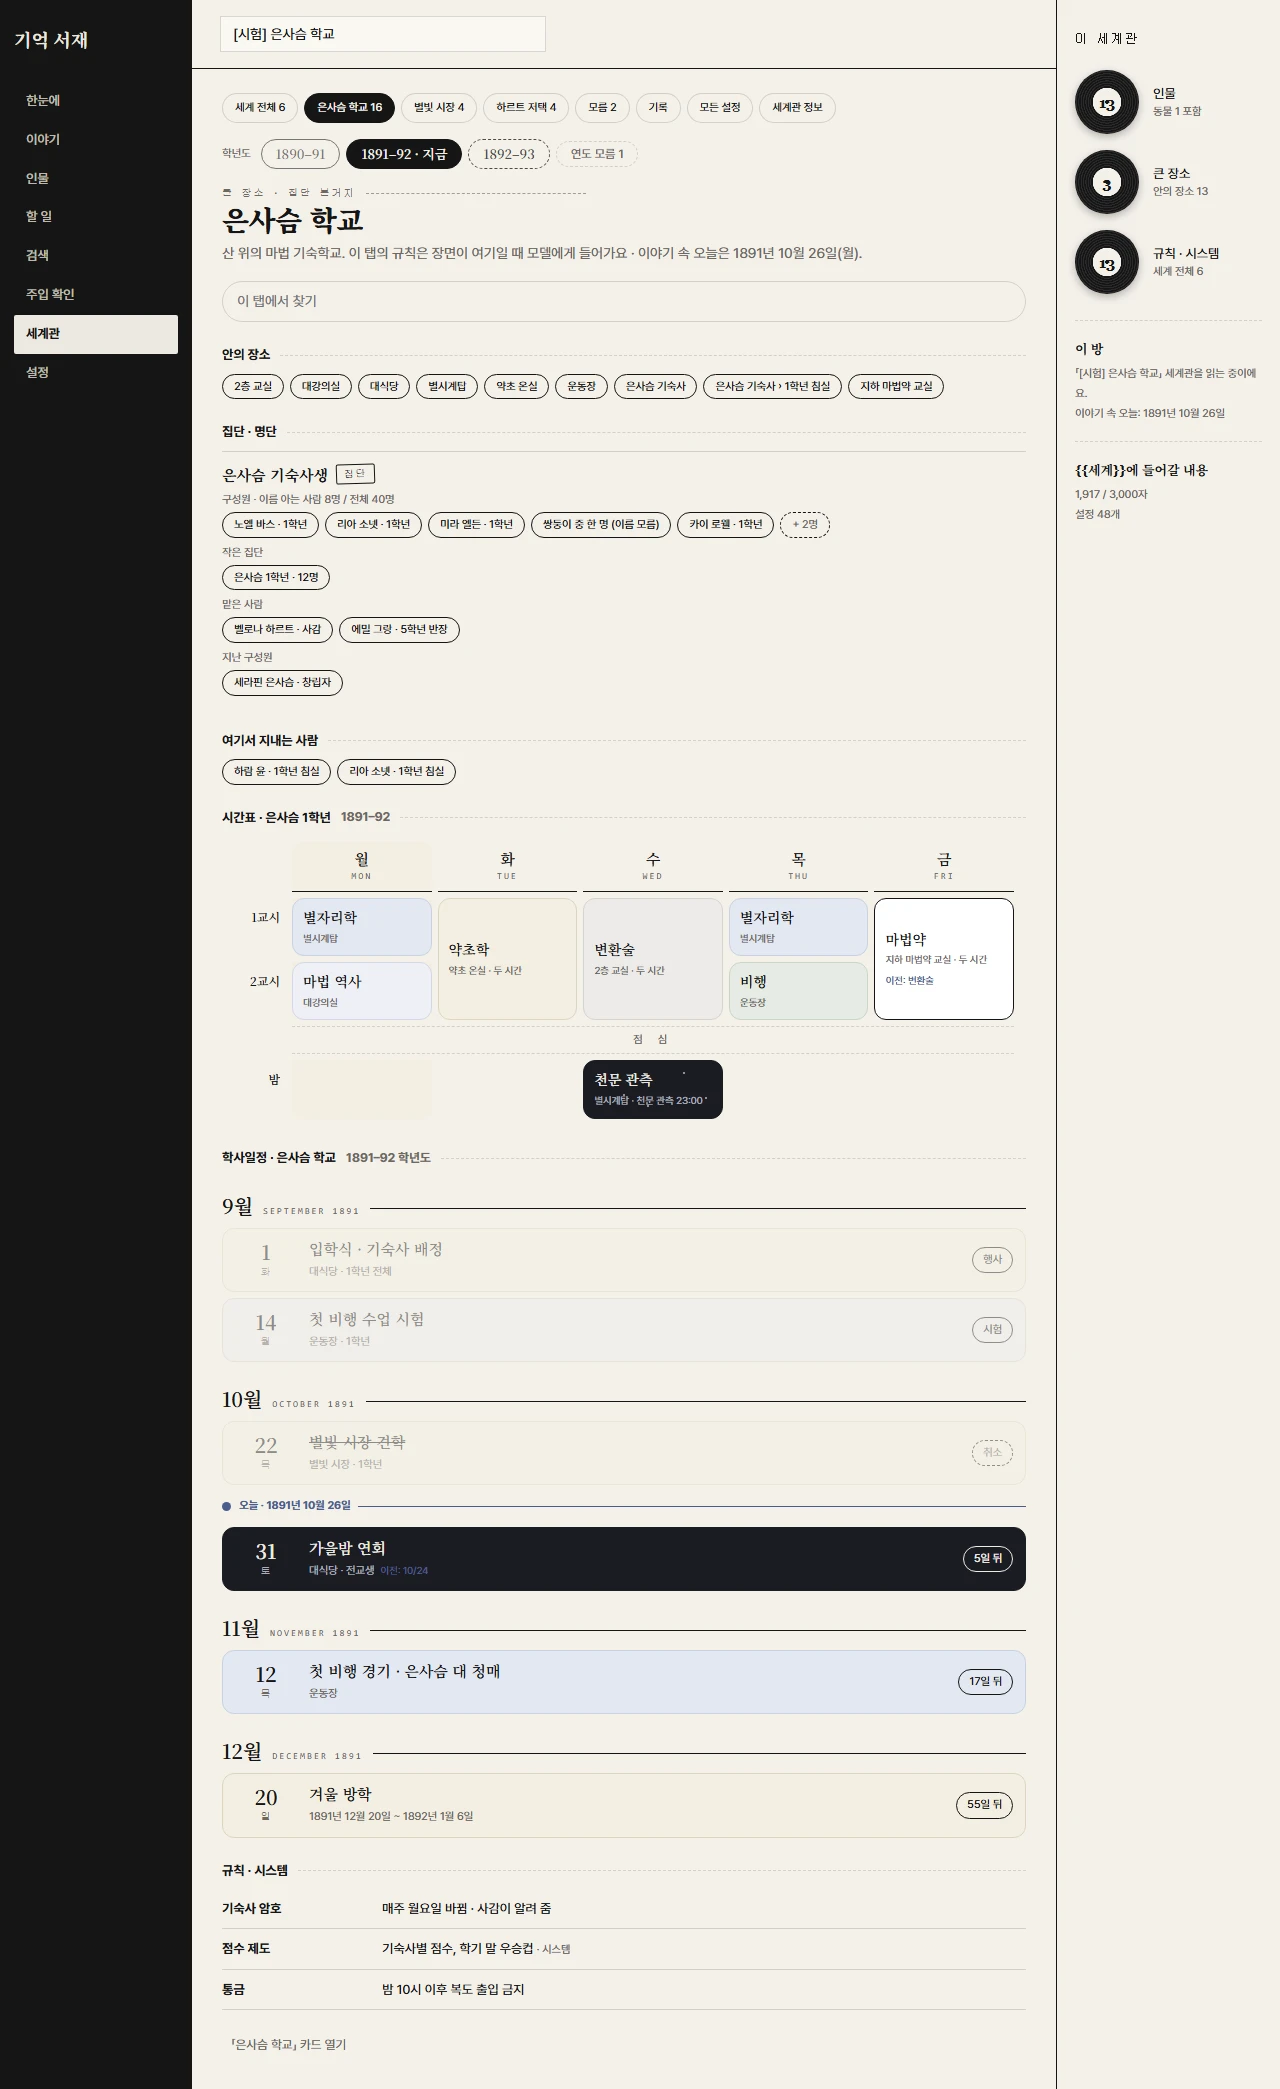
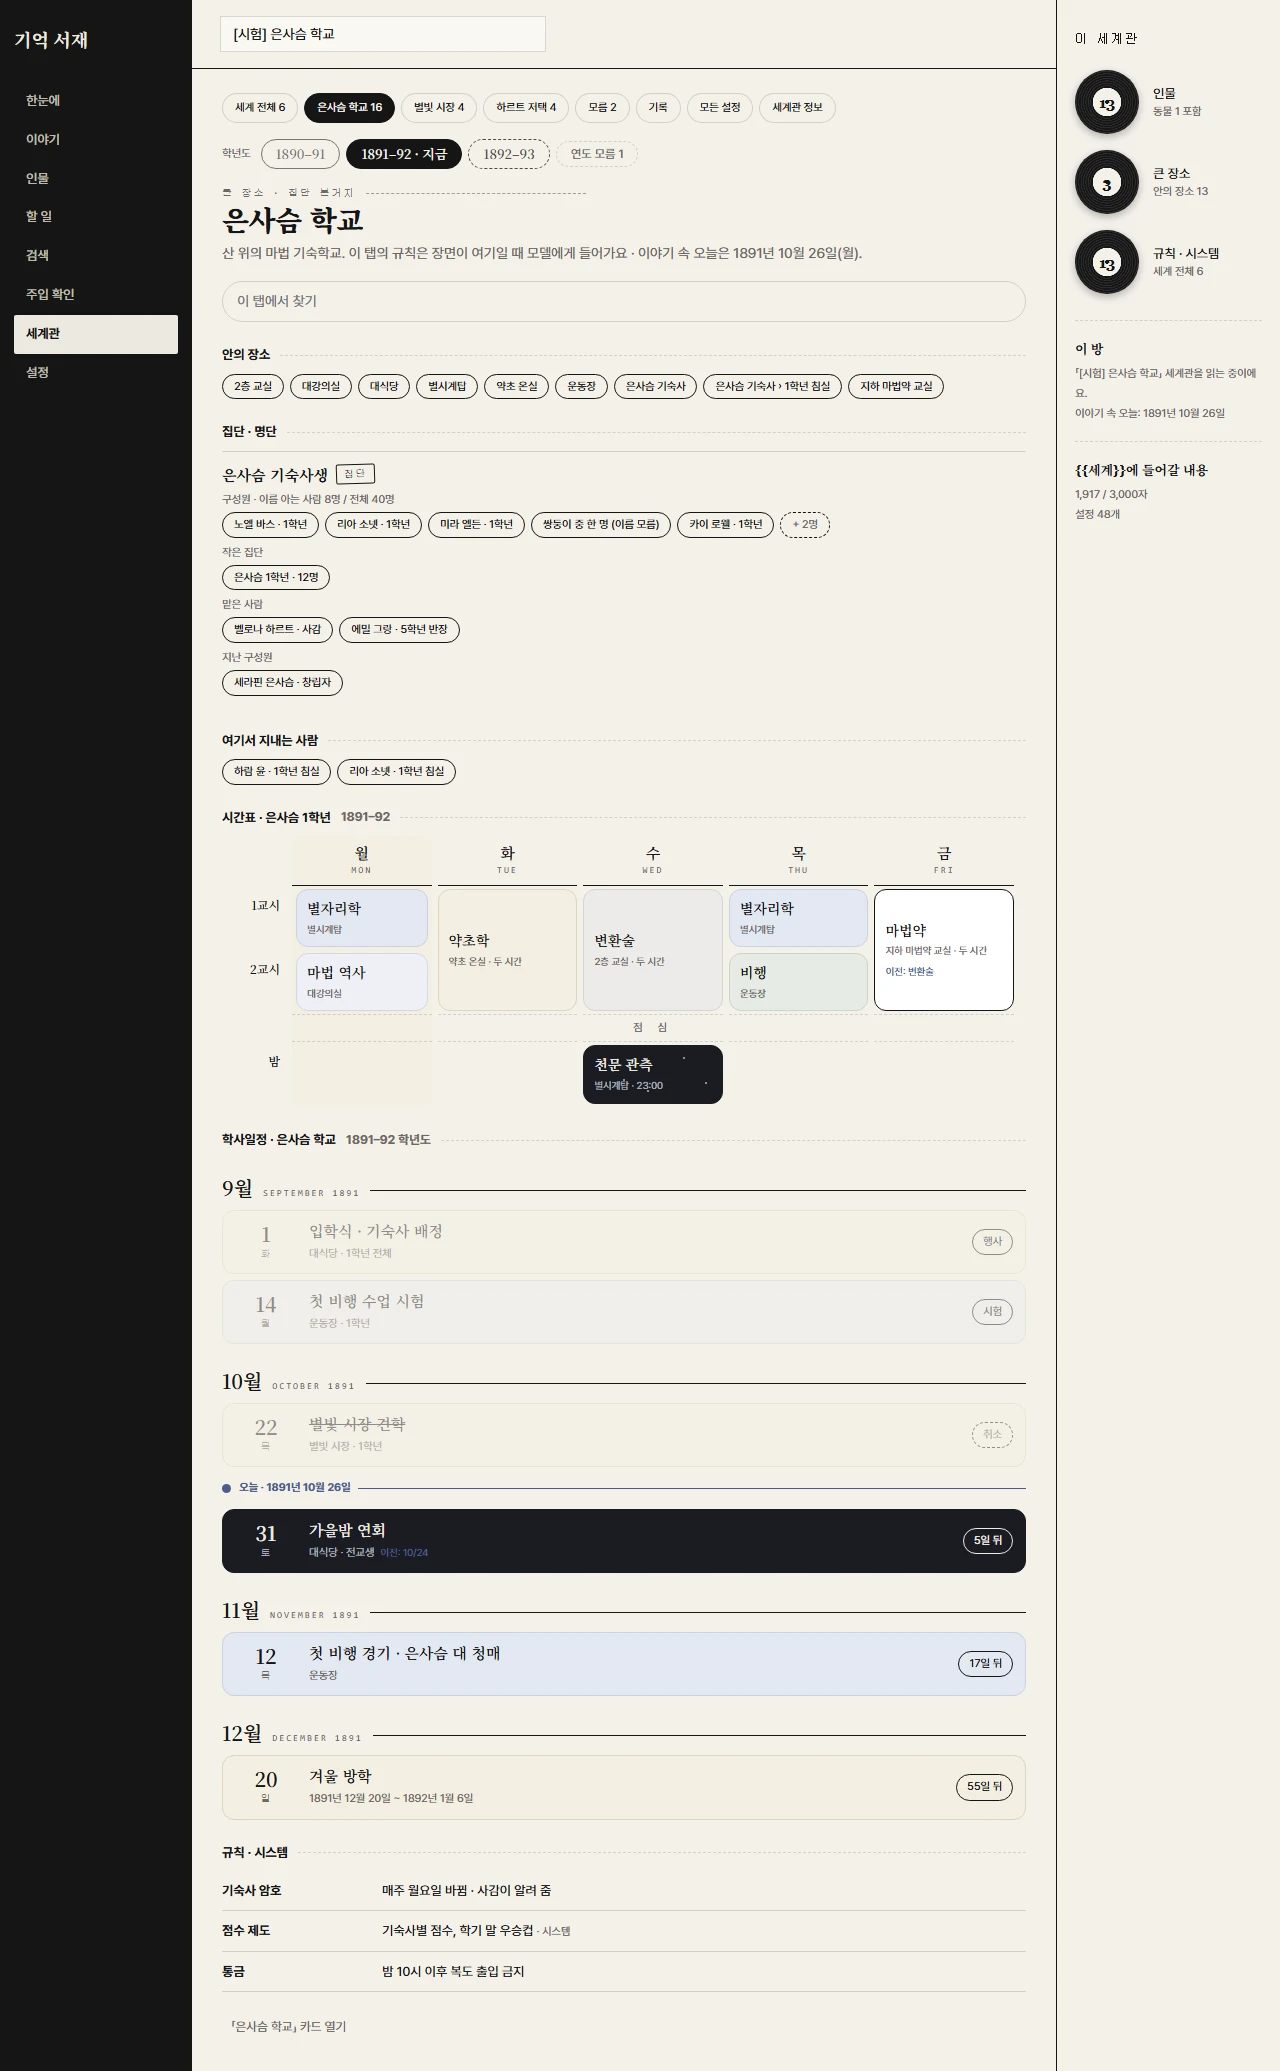
fix(v0.6.1): 세계관 칸 자잘한 4개 (사령탑 스크린샷 검토)
- 시간표 오늘 요일 띠: 머리부터 밤 줄까지 그 요일 칸 전체 뒤에(점심 줄 포함, 맨 아래만 둥글게). 어두운 모드 밤 줄의
  갈색 네모도 띠의 일부가 됨.
- 시간표 작은 글씨: 장소 · 시간 길이 · 값이 과목에 더하는 것만(「천문 관측 23:00」 → 「별시계탑 · 23:00」).
- 어두운 모드 학사일정 「바로 다음 일」: 크림 테두리 · 조금 밝은 바탕.
- 폰 학사일정 「N일 뒤」 캡슐: 이름 줄 오른쪽 끝에 작게(칸 높이 그대로).
- 큰 장소가 없는 세계관의 첫 탭: 세계 전체에 아무것도 없으면 「모름」.
- 스크린샷 세계관칸-{컴퓨터,폰}-{밝게,어둡게}.webp 다시 찍음. 판 0.6.1.

Tests: 201/201 pass (node:22-alpine, isolated).

diff --git a/extension/extension.js b/extension/extension.js
@@ -7,7 +7,7 @@
   // __WORLD_ARCHIVE_EMBEDDED__ = true; then nothing starts here and the tab calls __memoryWorldPanel.start(box).
   const EMBEDDED = typeof __WORLD_ARCHIVE_EMBEDDED__ !== 'undefined' && __WORLD_ARCHIVE_EMBEDDED__ === true;
   if (!EMBEDDED && document.getElementById('marinara-world-archive-root')) return;
-  const VERSION = '0.6.0';
+  const VERSION = '0.6.1';
   /** The contract level this screen is made for (the server's status.contract). Another level: read only. */
   const PANEL_CONTRACT = 2;
   const UPDATE_MSG = '세계관 칸을 쓰려면 기억 서재(또는 설정집)를 업데이트해 주세요. 지금은 보기만 할 수 있습니다.';
@@ -274,12 +274,12 @@ button.cap:hover{background:var(--wa-soft)}.cap.ghost{border-style:dashed;color:
 .wt-rule span{color:var(--wa-ink);overflow-wrap:anywhere}.wt-rule small{color:var(--wa-muted)}
 .wt-empty{color:var(--wa-muted);font-size:12.5px;margin:6px 0}
 /* 시간표 (시안 E) */
-.wt-tt{width:100%;border-collapse:separate;border-spacing:6px;table-layout:fixed;margin:0 -6px}
+.wt-tt{width:100%;border-collapse:separate;border-spacing:6px 0;table-layout:fixed;margin:0 -6px}
 .wt-tt th{font:600 15px/1.2 var(--wt-gothic);padding:8px 0 10px;border-bottom:1.5px solid var(--wa-ink);text-align:center}
 .wt-tt th small{display:block;font:9px var(--wa-mono);letter-spacing:2px;color:var(--wa-muted);margin-top:3px}
 .wt-tt th.today{background:var(--wt-cream);border-radius:10px 10px 0 0}.wt-tt th.blank{width:64px;border:0}
-.wt-tt td{vertical-align:top;padding:0}.wt-tt td.t{width:64px;text-align:right;padding:10px 6px 0 0;font-size:11px;color:var(--wa-muted)}.wt-tt td.t b{display:block;color:var(--wa-ink);font:600 12px var(--wt-gothic)}
-.wt-tt td.todaycol{background:var(--wt-cream);border-radius:0 0 10px 10px}
+.wt-tt td{vertical-align:top;padding:3px 0}.wt-tt td.t{width:64px;text-align:right;padding:10px 6px 0 0;font-size:11px;color:var(--wa-muted)}.wt-tt td.t b{display:block;color:var(--wa-ink);font:600 12px var(--wt-gothic)}
+.wt-tt td.todaycol{background:var(--wt-cream);padding:3px 4px}.wt-tt td.todaycol.end{border-radius:0 0 10px 10px;padding-bottom:7px}.wt-tt th.today{padding-left:4px;padding-right:4px}
 .wt-c{border-radius:12px;padding:10px 10px 9px;height:100%;min-height:58px;border:1px solid transparent;text-align:left;width:100%;display:block}
 .wt-c b{display:block;font:600 14px/1.25 var(--wt-gothic);overflow-wrap:anywhere}.wt-c small{display:block;font-size:10px;color:var(--wa-muted);margin-top:3px}
 .wt-c.s1{background:var(--wt-c1);border-color:var(--wt-c1-line)}.wt-c.s2{background:var(--wt-cream);border-color:var(--wt-cream-line)}.wt-c.s3{background:var(--wt-c3);border-color:var(--wt-c3-line)}
@@ -287,7 +287,7 @@ button.cap:hover{background:var(--wa-soft)}.cap.ghost{border-style:dashed;color:
 .wt-c.changed{background:var(--wt-white);border-color:var(--wa-ink)}.wt-c.wide{opacity:.55}
 .wt-was{font-size:10px;color:var(--wt-blue);margin-top:4px}
 .wt-free{border:1px dashed var(--wa-line);border-radius:12px;min-height:58px}
-.wt-lunch td.l{text-align:center;font-size:11px;color:var(--wa-muted);letter-spacing:6px;padding:4px 0;border-top:1px dashed var(--wa-line);border-bottom:1px dashed var(--wa-line)}
+.wt-lunch td{padding:0}.wt-lunch td.l{text-align:center;font-size:11px;color:var(--wa-muted);letter-spacing:6px;padding:4px 0;border-top:1px dashed var(--wa-line);border-bottom:1px dashed var(--wa-line)}
 .wt-night{background:var(--wt-night);color:var(--wt-night-ink);border-radius:12px;padding:10px;position:relative;overflow:hidden;min-height:58px;border:1px solid var(--wt-night);text-align:left;width:100%;display:block}
 :host([data-theme=dark]) .wt-night{border-color:var(--wa-field-line)}
 .wt-night b{display:block;color:var(--wt-night-ink);font:600 14px/1.25 var(--wt-gothic)}.wt-night small{display:block;color:var(--wt-night-sub);font-size:10px;margin-top:3px}
@@ -308,7 +308,7 @@ button.cap:hover{background:var(--wa-soft)}.cap.ghost{border-style:dashed;color:
 .wt-ev .n b{display:block;font:600 15px var(--wt-gothic);overflow-wrap:anywhere}.wt-ev .n small{color:var(--wa-muted);font-size:11px}
 .wt-ev .k{font-size:11px;padding:3px 10px;border-radius:999px;border:1px solid var(--wa-ink);white-space:nowrap}
 .wt-ev.past{opacity:.45}.wt-ev.c1{background:var(--wt-c1);border-color:var(--wt-c1-line)}.wt-ev.c2{background:var(--wt-cream);border-color:var(--wt-cream-line)}.wt-ev.c3{background:var(--wt-c3);border-color:var(--wt-c3-line)}
-.wt-ev.next{background:var(--wt-night);color:var(--wt-night-ink);border-color:var(--wt-night)}:host([data-theme=dark]) .wt-ev.next{border-color:var(--wa-field-line)}
+.wt-ev.next{background:var(--wt-night);color:var(--wt-night-ink);border-color:var(--wt-night)}:host([data-theme=dark]) .wt-ev.next{background:#2b2924;border-color:#e8dfc4}
 .wt-ev.next .n small,.wt-ev.next .d small{color:var(--wt-night-sub)}.wt-ev.next .k{border-color:var(--wt-night-ink)}
 .wt-ev.cancel .n b{text-decoration:line-through}.wt-ev.cancel .k{border-style:dashed;color:var(--wa-muted)}.wt-ev.noyear{border-style:dashed}
 .wt-today{display:flex;align-items:center;gap:8px;margin:12px 0;color:var(--wt-blue);font-size:11px;font-weight:700}
@@ -327,7 +327,7 @@ button.cap:hover{background:var(--wa-soft)}.cap.ghost{border-style:dashed;color:
 @media(max-width:720px){
   .wt-tt{display:none}.wt-dtab{display:flex}.wt-day.on{display:block}
   .wt-rule{flex-direction:column;gap:2px}.wt-rule b,.wt-rule button{min-width:0}
-  .wt-ev{grid-template-columns:46px minmax(0,1fr);gap:10px}.wt-ev .k{grid-column:2;justify-self:start}
+  .wt-ev{grid-template-columns:46px minmax(0,1fr) auto;gap:8px;padding:8px 10px}.wt-ev .k{font-size:10px;padding:2px 7px}
   :host([data-embedded]) main{padding:16px 14px 40px}
 }
 `;
@@ -1208,7 +1208,9 @@ button.cap:hover{background:var(--wa-soft)}.cap.ghost{border-style:dashed;color:
       if (!hit) return night(s) ? '' : '<div class="wt-free"></div>';
       const [k, c] = hit;
       const subj = c.subject || c.value;
-      const sub = [c.place, c.hours > 1 ? `${HOURS[c.hours] || c.hours} 시간` : '', c.value !== subj ? c.value : ''].filter(Boolean).join(' · ');
+      // the small line: place · how long · what the value adds to the subject (「천문 관측 23:00」 → 「23:00」), never the subject again
+      const extra = c.value !== subj ? (c.value.startsWith(subj) ? c.value.slice(subj.length).replace(/^[\s·,—–-]+/, '') : c.value) : '';
+      const sub = [c.place, c.hours > 1 ? `${HOURS[c.hours] || c.hours} 시간` : '', extra].filter(Boolean).join(' · ');
       const was = c.past?.[0] ? `<div class="wt-was">이전: ${esc(c.past[0].value)}</div>` : '';
       const wait = c.pending ? `<div class="wt-was">대화에서는 「${esc(c.pending.value)}」</div>` : '';
       const q = esc(`${c.value} ${c.place || ''}`.toLowerCase());
@@ -1218,7 +1220,16 @@ button.cap:hover{background:var(--wa-soft)}.cap.ghost{border-style:dashed;color:
     };
     const morning = (s) => ttSlotRank(s) < 720;
     const lunchAt = slots.findIndex((s, i) => i > 0 && morning(slots[i - 1]) && !morning(s));
-    const rows = slots.map((s, i) => `${i === lunchAt ? `<tr class="wt-lunch"><td></td><td colspan="${days.length}" class="l">점 심</td></tr>` : ''}<tr><td class="t"><b>${esc(s)}</b></td>${days.map((d) => (covered.has(`${d}|${s}`) ? '' : `<td ${span.get(`${d}|${s}`) > 1 ? `rowspan="${span.get(`${d}|${s}`)}"` : ''} class="${d === today ? 'todaycol' : ''}">${box(d, s, span.get(`${d}|${s}`))}</td>`)).join('')}</tr>`).join('');
+    // v0.6.1: the story's weekday is one cream band from the head to the last row (every row's cell of that day, the
+    // 점심 line too, rounded at the bottom)
+    const mid = Math.floor((days.length - 1) / 2);
+    const lunchRow = `<tr class="wt-lunch"><td></td>${days.map((d, j) => `<td class="l${d === today ? ' todaycol' : ''}">${j === mid ? '점 심' : ''}</td>`).join('')}</tr>`;
+    const cellTd = (d, s, i) => {
+      const n = span.get(`${d}|${s}`) || 1;
+      const cls = d === today ? `todaycol${i + n - 1 === slots.length - 1 ? ' end' : ''}` : '';
+      return `<td ${n > 1 ? `rowspan="${n}"` : ''} class="${cls}">${box(d, s, n > 1 ? n : 0)}</td>`;
+    };
+    const rows = slots.map((s, i) => `${i === lunchAt ? lunchRow : ''}<tr><td class="t"><b>${esc(s)}</b></td>${days.map((d) => (covered.has(`${d}|${s}`) ? '' : cellTd(d, s, i))).join('')}</tr>`).join('');
     const table = `<table class="wt-tt"><thead><tr><th class="blank"></th>${days.map((d) => `<th class="${d === today ? 'today' : ''}">${d}<small>${DAY_EN[d]}</small></th>`).join('')}</tr></thead><tbody>${rows}</tbody></table>`;
     // phone: one day
     const pick = st.ttDay && days.includes(st.ttDay) ? st.ttDay : today && days.includes(today) ? today : days[0];
@@ -1294,7 +1305,9 @@ button.cap:hover{background:var(--wa-soft)}.cap.ghost{border-style:dashed;color:
   function tabsHtml() {
     const m = worldMap();
     const keys = ['world', 'unknown', ...m.big.map((x) => x.key)];
-    const sel = keys.includes(st.tab) ? st.tab : m.big[0]?.key || 'world';
+    // first: the biggest place; with none, 「세계 전체」 when it has anything, else 「모름」
+    const lostN = m.lost.rules.length + m.lost.groups.length + m.lost.places.length + m.lost.sheets.length + m.lost.cals.length;
+    const sel = keys.includes(st.tab) ? st.tab : m.big[0]?.key || (m.everywhere.rules.length + m.everywhere.cals.length || !lostN ? 'world' : 'unknown');
     const today = storyToday();
     const todayLine = today ? ` · 이야기 속 오늘은 ${fmtKo(today.date)}(${today.weekday || dowOf(today.date)})` : '';
     const find = `<input class="wt-find" id="tabq" type="search" placeholder="이 탭에서 찾기" value="${esc(st.tabQuery || '')}" aria-label="이 탭에서 찾기">`;

diff --git a/README.md b/README.md
@@ -54,6 +54,7 @@ Marinara Engine용 독립 세계관 설정 관리 모듈.
   - 어두운 모드는 같은 색 계열을 낮춘 색(남색 바탕 없음). 스크린샷(지어낸 「은사슴 학교」): `docs/screenshots/세계관칸-컴퓨터-밝게.webp` · `-어둡게` · `세계관칸-폰-밝게` · `-어둡게`, 단독 화면 `단독화면-*`
   - 고침: 해마다 같은 날의 행사(9월 1일 입학식)가 하나로 합쳐져 「이전」 날짜가 되던 것 — 학년도가 다르면 다른 행사. 소속 칸에 집단이 둘이면 그 집단을 말하는 조각으로만 「맡은 사람」을 가림
   - 화면 확인용 시험대: `node tools/demo-server.cjs`(지어낸 세계만, 이 컴퓨터 임시 폴더)
+  - v0.6.1: 오늘 요일 띠가 머리부터 마지막 줄까지 · 시간표 작은 글씨는 장소 · 시각만(과목 이름 되풀이 없음) · 어두운 모드 「바로 다음 일」 칸은 크림 테두리 · 폰 학사일정 「N일 뒤」는 이름 줄 오른쪽에
 - **매크로는 `{{세계}}`(`{{world}}`)와 `{{세계외형}}`(`{{world_looks}}`) 두 개뿐이다.**
 
 원래 마리나라 파일은 건드리지 않는다. 서버가 켜질 때 메모리에서만 두 곳(매크로 엔진, 서버 앱)에 끼어들고, 버전이 맞지 않으면 그 부분만 꺼지고 마리나라는 원래대로 켜진다. API는 마리나라 로그인·접속 제한을 그대로 따른다(별도 토큰 없음).
